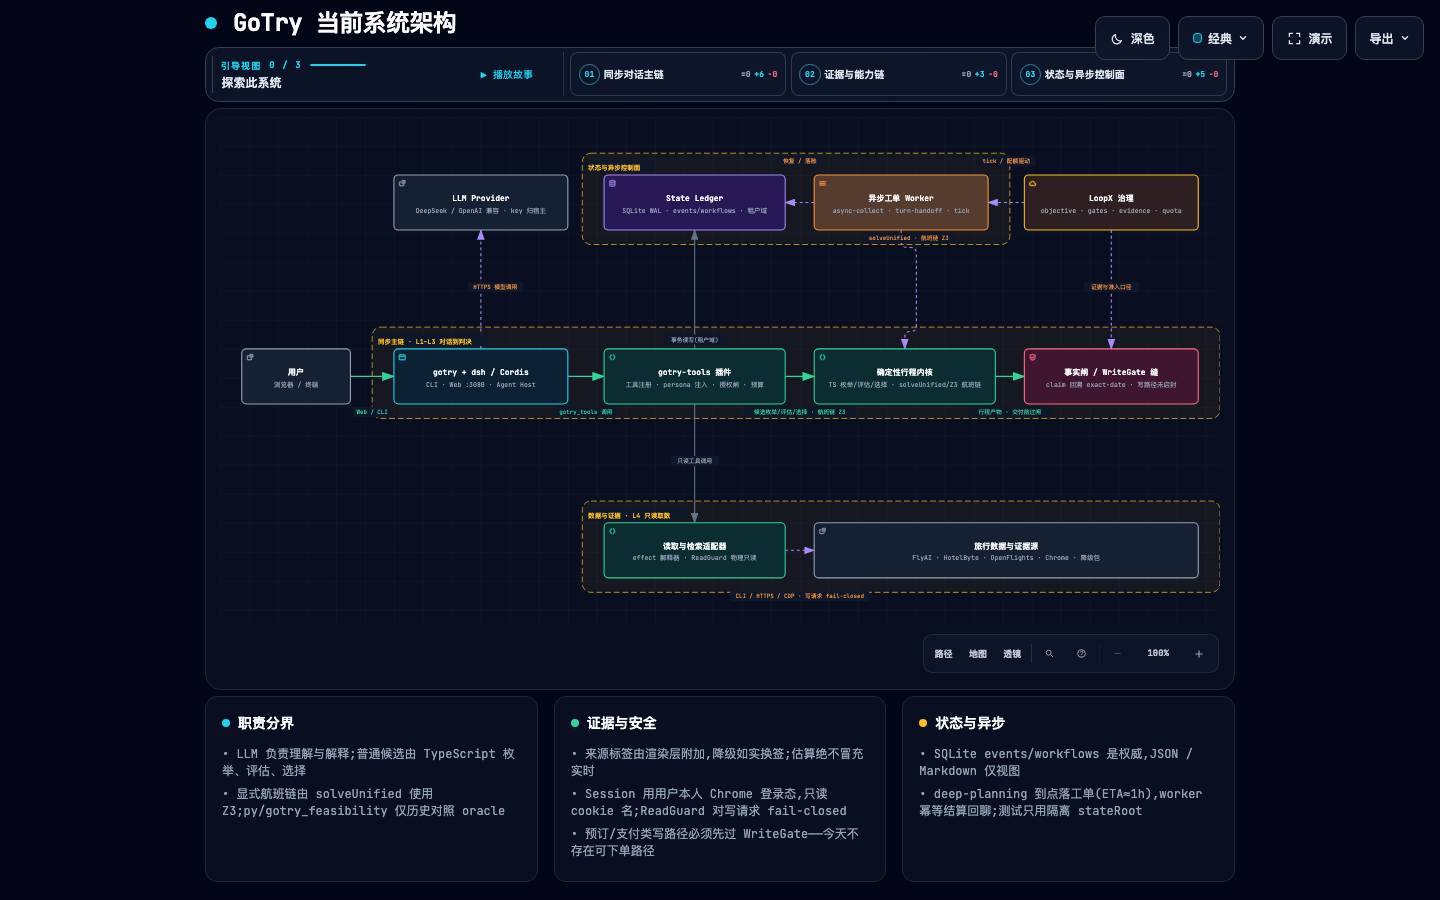
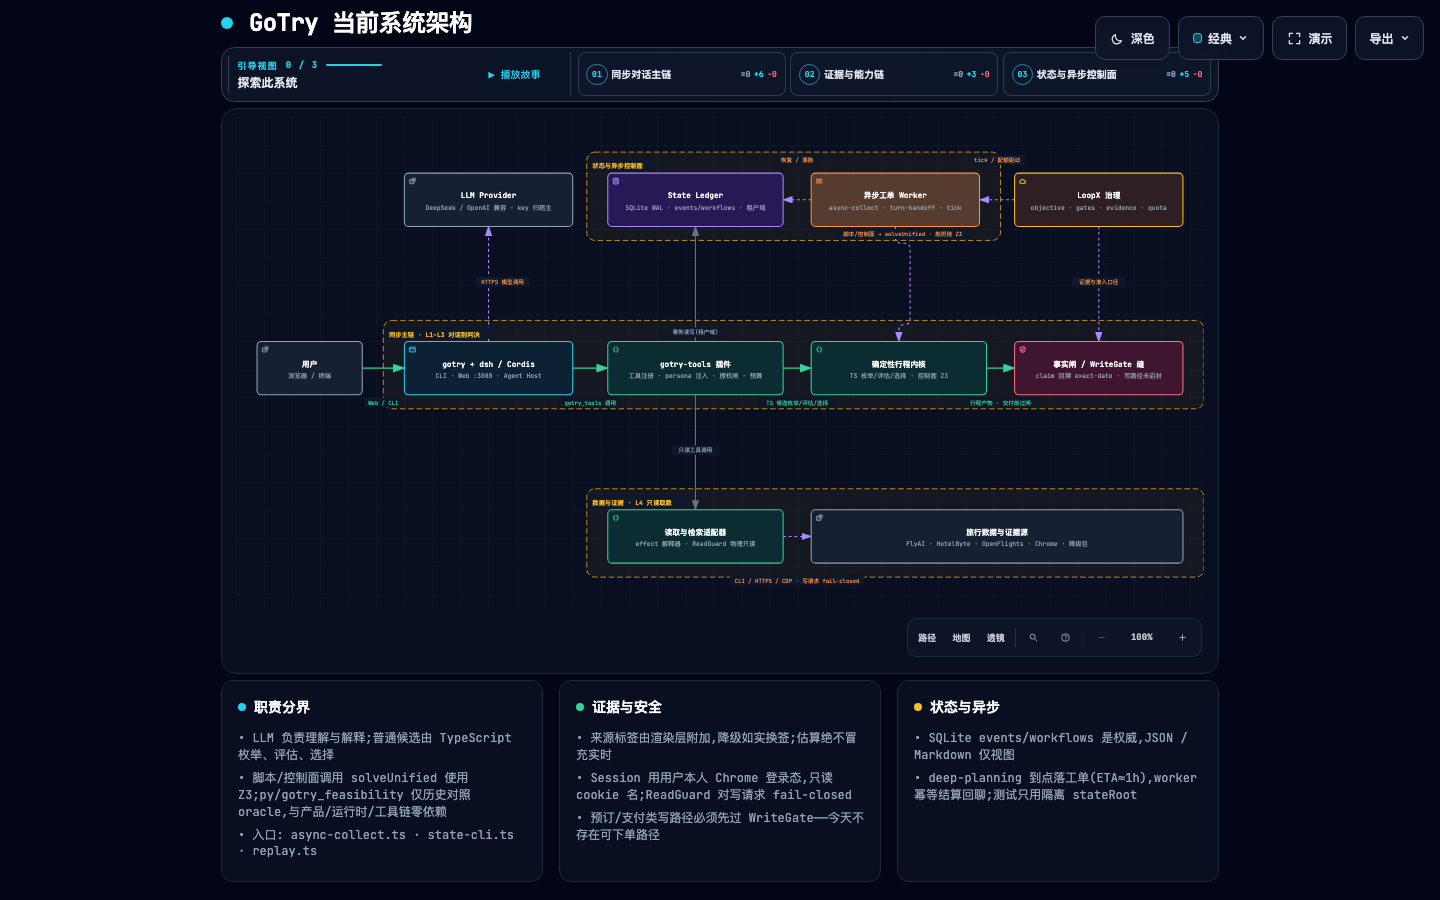
docs(readme): scope Z3 to control-plane callers

diff --git a/docs/assets/gotry-system-architecture.html b/docs/assets/gotry-system-architecture.html
@@ -5040,11 +5040,11 @@
         <path data-edge-from="user" data-edge-to="local-runtime" data-edge-label="Web / CLI" data-edge-key="0" data-edge-id="user-enters" data-composition-points="180,358;240,358" d="M 180 358 L 240 358" class="a-emphasis" stroke-width="1.8" marker-end="url(#arrowhead-emphasis)"/>
         <path data-edge-from="local-runtime" data-edge-to="llm-provider" data-edge-label="HTTPS 模型调用" data-edge-key="1" data-edge-id="runtime-calls-llm" data-composition-points="360,320;360,156" d="M 360 320 L 360 156" class="a-dashed" stroke-width="1.5" marker-end="url(#arrowhead-dashed)"/>
         <path data-edge-from="local-runtime" data-edge-to="gotry-plugin" data-edge-label="gotry_tools 调用" data-edge-key="2" data-edge-id="runtime-invokes-tools" data-composition-points="480,358;530,358" d="M 480 358 L 530 358" class="a-emphasis" stroke-width="1.8" marker-end="url(#arrowhead-emphasis)"/>
-        <path data-edge-from="gotry-plugin" data-edge-to="travel-core" data-edge-label="候选枚举/评估/选择 · 航班链 Z3" data-edge-key="3" data-edge-id="plugin-solves" data-composition-points="780,358;820,358" d="M 780 358 L 820 358" class="a-emphasis" stroke-width="1.8" marker-end="url(#arrowhead-emphasis)"/>
+        <path data-edge-from="gotry-plugin" data-edge-to="travel-core" data-edge-label="TS 候选枚举/评估/选择" data-edge-key="3" data-edge-id="plugin-solves" data-composition-points="780,358;820,358" d="M 780 358 L 820 358" class="a-emphasis" stroke-width="1.8" marker-end="url(#arrowhead-emphasis)"/>
         <path data-edge-from="travel-core" data-edge-to="fact-gate" data-edge-label="行程产物 · 交付前过闸" data-edge-key="4" data-edge-id="core-to-gate" data-composition-points="1070,358;1110,358" d="M 1070 358 L 1110 358" class="a-emphasis" stroke-width="1.8" marker-end="url(#arrowhead-emphasis)"/>
         <path data-edge-from="gotry-plugin" data-edge-to="state-ledger" data-edge-label="事务读写(租户域)" data-edge-key="5" data-edge-id="plugin-uses-ledger" data-composition-points="655,320;655,156" d="M 655 320 L 655 156" class="a-default" stroke-width="1.5" marker-end="url(#arrowhead)"/>
         <path data-edge-from="async-worker" data-edge-to="state-ledger" data-edge-label="恢复 / 落账" data-edge-key="6" data-edge-id="worker-uses-ledger" data-composition-points="820,118;780,118" d="M 820 118 L 780 118" class="a-dashed" stroke-width="1.5" marker-end="url(#arrowhead-dashed)"/>
-        <path data-edge-from="async-worker" data-edge-to="travel-core" data-edge-label="solveUnified · 航班链 Z3" data-edge-key="7" data-edge-id="worker-solves" data-composition-points="940,156;940,180;961,180;961,296;945,296;945,320" d="M 940 156 L 940 172 Q 940 180 948 180 L 953 180 Q 961 180 961 188 L 961 288 Q 961 296 953 296 L 953 296 Q 945 296 945 304 L 945 320" class="a-dashed" stroke-width="1.5" marker-end="url(#arrowhead-dashed)"/>
+        <path data-edge-from="async-worker" data-edge-to="travel-core" data-edge-label="脚本/控制面 → solveUnified · 航班链 Z3" data-edge-key="7" data-edge-id="worker-solves" data-composition-points="940,156;940,180;961,180;961,296;945,296;945,320" d="M 940 156 L 940 172 Q 940 180 948 180 L 953 180 Q 961 180 961 188 L 961 288 Q 961 296 953 296 L 953 296 Q 945 296 945 304 L 945 320" class="a-dashed" stroke-width="1.5" marker-end="url(#arrowhead-dashed)"/>
         <path data-edge-from="gotry-plugin" data-edge-to="capability-adapters" data-edge-label="只读工具调用" data-edge-key="8" data-edge-id="plugin-calls-adapters" data-composition-points="655,396;655,560" d="M 655 396 L 655 560" class="a-default" stroke-width="1.5" marker-end="url(#arrowhead)"/>
         <path data-edge-from="capability-adapters" data-edge-to="external-sources" data-edge-label="CLI / HTTPS / CDP · 写请求 fail-closed" data-edge-key="9" data-edge-id="adapters-query-sources" data-composition-points="780,598;820,598" d="M 780 598 L 820 598" class="a-dashed" stroke-width="1.5" marker-end="url(#arrowhead-dashed)"/>
         <path data-edge-from="loopx" data-edge-to="async-worker" data-edge-label="tick / 配额驱动" data-edge-key="10" data-edge-id="loopx-drives-worker" data-composition-points="1110,118;1060,118" d="M 1110 118 L 1060 118" class="a-dashed" stroke-width="1.5" marker-end="url(#arrowhead-dashed)"/>
@@ -5102,15 +5102,15 @@
         <text data-detail="fine" x="655" y="388" class="t-backend" font-size="7" text-anchor="middle">Cordis plugin</text>
         </g>
 
-        <g id="node-travel-core" data-node-id="travel-core" data-node-label="确定性行程内核" tabindex="0" role="button" aria-label="聚焦确定性行程内核，TS 枚举/评估/选择 · solveUnified/Z3 航班链, 同步主链 · L1–L3 对话到判决" aria-pressed="false" data-node-kind="backend" data-node-sublabel="TS 枚举/评估/选择 · solveUnified/Z3 航班链" data-node-tag="L3" data-node-context="同步主链 · L1–L3 对话到判决">
-          <title>确定性行程内核 · TS 枚举/评估/选择 · solveUnified/Z3 航班链 · 同步主链 · L1–L3 对话到判决 · L3</title>
+        <g id="node-travel-core" data-node-id="travel-core" data-node-label="确定性行程内核" tabindex="0" role="button" aria-label="聚焦确定性行程内核，TS 枚举/评估/选择 · 控制面 Z3, 同步主链 · L1–L3 对话到判决" aria-pressed="false" data-node-kind="backend" data-node-sublabel="TS 枚举/评估/选择 · 控制面 Z3" data-node-tag="L3" data-node-context="同步主链 · L1–L3 对话到判决">
+          <title>确定性行程内核 · TS 枚举/评估/选择 · 控制面 Z3 · 同步主链 · L1–L3 对话到判决 · L3</title>
           <rect x="820" y="320" width="250" height="76" rx="6" class="c-mask"/>
           <rect x="820" y="320" width="250" height="76" rx="6" class="c-backend" stroke-width="1.5"/>
           <g aria-hidden="true" data-semantic-sigil="backend" class="semantic-sigil s-backend" transform="translate(826 326) scale(0.6875)">
             <path d="M6 3 3 8l3 5M10 3l3 5-3 5"/>
           </g>
           <text data-node-label="" data-detail-anchor="" x="945" y="356" class="t-primary" font-size="11" font-weight="600" text-anchor="middle">确定性行程内核</text>
-        <text data-detail="context" x="945" y="372" class="t-muted" font-size="9" text-anchor="middle">TS 枚举/评估/选择 · solveUnified/Z3 航班链</text>
+        <text data-detail="context" x="945" y="372" class="t-muted" font-size="9" text-anchor="middle">TS 枚举/评估/选择 · 控制面 Z3</text>
         <text data-detail="fine" x="945" y="388" class="t-backend" font-size="7" text-anchor="middle">L3</text>
         </g>
 
@@ -5205,9 +5205,9 @@
           <rect x="461.6" y="400" width="86.8" height="14" rx="3" class="c-mask"/>
           <text x="505" y="410" class="t-backend" font-size="8" text-anchor="middle">gotry_tools 调用</text>
         </g>
-        <g data-detail="context" data-edge-from="gotry-plugin" data-edge-to="travel-core" data-edge-label="候选枚举/评估/选择 · 航班链 Z3" data-edge-key="3" data-edge-id="plugin-solves">
-          <rect x="723" y="400" width="154" height="14" rx="3" class="c-mask"/>
-          <text x="800" y="410" class="t-backend" font-size="8" text-anchor="middle">候选枚举/评估/选择 · 航班链 Z3</text>
+        <g data-detail="context" data-edge-from="gotry-plugin" data-edge-to="travel-core" data-edge-label="TS 候选枚举/评估/选择" data-edge-key="3" data-edge-id="plugin-solves">
+          <rect x="744.6" y="400" width="110.8" height="14" rx="3" class="c-mask"/>
+          <text x="800" y="410" class="t-backend" font-size="8" text-anchor="middle">TS 候选枚举/评估/选择</text>
         </g>
         <g data-detail="context" data-edge-from="travel-core" data-edge-to="fact-gate" data-edge-label="行程产物 · 交付前过闸" data-edge-key="4" data-edge-id="core-to-gate">
           <rect x="1034.6" y="400" width="110.8" height="14" rx="3" class="c-mask"/>
@@ -5221,9 +5221,9 @@
           <rect x="768.6" y="54" width="62.8" height="14" rx="3" class="c-mask"/>
           <text x="800" y="64" class="t-messagebus" font-size="8" text-anchor="middle">恢复 / 落账</text>
         </g>
-        <g data-detail="context" data-edge-from="async-worker" data-edge-to="travel-core" data-edge-label="solveUnified · 航班链 Z3" data-edge-key="7" data-edge-id="worker-solves">
-          <rect x="887.9" y="160" width="125.19999999999999" height="14" rx="3" class="c-mask"/>
-          <text x="950.5" y="170" class="t-messagebus" font-size="8" text-anchor="middle">solveUnified · 航班链 Z3</text>
+        <g data-detail="context" data-edge-from="async-worker" data-edge-to="travel-core" data-edge-label="脚本/控制面 → solveUnified · 航班链 Z3" data-edge-key="7" data-edge-id="worker-solves">
+          <rect x="854.3" y="160" width="192.4" height="14" rx="3" class="c-mask"/>
+          <text x="950.5" y="170" class="t-messagebus" font-size="8" text-anchor="middle">脚本/控制面 → solveUnified · 航班链 Z3</text>
         </g>
         <g data-detail="context" data-edge-from="gotry-plugin" data-edge-to="capability-adapters" data-edge-label="只读工具调用" data-edge-key="8" data-edge-id="plugin-calls-adapters">
           <rect x="621.2" y="468" width="67.6" height="14" rx="3" class="c-mask"/>
@@ -5453,7 +5453,8 @@
         </div>
         <ul>
           <li>&bull; LLM 负责理解与解释;普通候选由 TypeScript 枚举、评估、选择</li>
-          <li>&bull; 显式航班链由 solveUnified 使用 Z3;py/gotry_feasibility 仅历史对照 oracle</li>
+          <li>&bull; 脚本/控制面调用 solveUnified 使用 Z3;py/gotry_feasibility 仅历史对照 oracle,与产品/运行时/工具链零依赖</li>
+          <li>&bull; 入口: async-collect.ts · state-cli.ts · replay.ts</li>
         </ul>
       </div>
 

diff --git a/README.md b/README.md
@@ -39,8 +39,8 @@ flowchart LR
   subgraph NUM["Deterministic TypeScript kernel — ordinary choice path"]
     C["Candidate enumeration<br/>solveChoiceSegment"] --> D["Evaluate each choice<br/>evaluateChoice · true-cost checks"] --> V["Choice verdict<br/>feasible / infeasible · recommendation"]
   end
-  subgraph Z3PATH["Explicit flight-chain path"]
-    Z["solveUnified<br/>flight-chain constraints · Z3"]
+  subgraph Z3PATH["Separate script/control-plane entry"]
+    Z["solveUnified<br/>script/control-plane flight-chain · Z3"]
   end
   subgraph GATE["Gates &amp; memory"]
     E["Evidence chain<br/>every number carries a source tag"] --> F{"Fact gate"}
@@ -50,7 +50,7 @@ flowchart LR
   end
   B --> C
   V --> E
-  B -.->|"explicit flight-chain request"| Z
+  B -.->|"separate script/control-plane entry"| Z
   Z --> E
   V -.->|"infeasible today"| I
   I -.->|"conditions met — enumerate again"| C
@@ -109,7 +109,7 @@ Architecture, five layers:
 | Layer | Module | Role |
 |---|---|---|
 | L2 | `ts/src/index.ts` (dsh plugin) | Tool registry (count lives in code and `scripts/run-all-tests.sh` output), time-anchor & memory-brief variables; execute isolation + consent gate + per-turn tool budget + process guards |
-| L3 | `ts/src/unified.ts` · `py/gotry_feasibility/` | ordinary candidate enumeration/evaluation/choice; `solveUnified` is the separate flight-chain Z3 path |
+| L3 | `ts/src/unified.ts` | ordinary candidate enumeration/evaluation/choice; `solveUnified` is the separate flight-chain Z3 path. `py/gotry_feasibility/` is a historical comparison oracle only, with zero product/runtime/toolchain dependency |
 | L4 | `ts/capabilities/effect.ts` · `hbcli.ts` · `skeleton-check.ts` | effect interpreter (backoff retry / circuit breaker / mock interpreter) + realtime inventory bridge + OpenFlights skeleton (three-valued semantics) |
 | L5 | loopx governance | objective / gates / evidence / quota |
 
@@ -129,7 +129,7 @@ The GoTry plugin exposes its tools in groups (the exact count lives in the code 
 | | `gotry_skeleton_check` | OpenFlights 168-hub-pair connectivity (three-valued) |
 | **Inventory & catalog** | `gotry_hotel_search` | hotel-byte realtime bridge (requires valid check-in/check-out dates and asks for missing dates), with clearly labeled static results when the supplier is unavailable |
 | | `gotry_anything_search` | mixed city/hotel/POI catalog (hotel-be Anything) |
-| **Decision engine** | `gotry_feasibility_check` | Ordinary path: deterministic TypeScript candidate enumeration/evaluation and per-candidate verdicts; explicit flight-chain requests use Z3 |
+| **Decision engine** | `gotry_feasibility_check` | Registered path: deterministic TypeScript candidate enumeration/evaluation and per-candidate verdicts |
 | **Memory & reachability** | `gotry_motivation_save` | Persist motivation profile (evidence mandatory, anti-fabrication) |
 | | `gotry_wish_pool_add` / `gotry_wish_pool_list` | "next departure" wish pool + 0..1 conditional recall |
 | | `gotry_companion_save` · `gotry_trip_log` | companion profile / travel timeline |

diff --git a/README.zh-CN.md b/README.zh-CN.md
@@ -39,8 +39,8 @@ flowchart LR
   subgraph NUM["确定性 TypeScript 内核——普通候选路径"]
     C["候选枚举<br/>solveChoiceSegment"] --> D["逐个评估选择<br/>evaluateChoice · 真成本检查"] --> V["选择判决<br/>可行 / 不可行 · 推荐"]
   end
-  subgraph Z3PATH["显式航班链路径"]
-    Z["solveUnified<br/>航班链约束 · Z3"]
+  subgraph Z3PATH["独立脚本/控制面入口"]
+    Z["solveUnified<br/>脚本/控制面航班链 · Z3"]
   end
   subgraph GATE["闸与记忆"]
     E["证据链<br/>每个数字带来源标签"] --> F{"事实闸"}
@@ -50,7 +50,7 @@ flowchart LR
   end
   B --> C
   V --> E
-  B -.->|"显式航班链请求"| Z
+  B -.->|"独立脚本/控制面入口"| Z
   Z --> E
   V -.->|"今天装不下"| I
   I -.->|"条件满足,重新枚举"| C
@@ -109,7 +109,7 @@ stateDiagram-v2
 | 层 | 模块 | 角色 |
 |---|---|---|
 | L2 | `ts/src/index.ts`(dsh 插件) | 注册 21 工具,挂时间锚点/记忆 brief 变量;execute 异常隔离 + 授权闸 + 每轮工具预算 + 进程护栏 |
-| L3 | `ts/src/unified.ts` · `py/gotry_feasibility/` | 普通候选枚举/评估/选择; `solveUnified` 是独立航班链 Z3 路径 |
+| L3 | `ts/src/unified.ts` | 普通候选枚举/评估/选择; `solveUnified` 是独立航班链 Z3 路径。`py/gotry_feasibility/` 仅是历史对照 oracle,与产品/运行时/工具链零依赖 |
 | L4 | `ts/capabilities/effect.ts` · `hbcli.ts` · `skeleton-check.ts` | 效应解译层(退避重试/断路器/mock 解译器)+ 实时库存桥 + OpenFlights 骨架(三值语义) |
 | L5 | loopx 治理面 | objective / gates / evidence / quota |
 
@@ -129,7 +129,7 @@ stateDiagram-v2
 | | `gotry_skeleton_check` | OpenFlights 168 对枢纽通航性(三值) |
 | **库存与目录** | `gotry_hotel_search` | hotel-byte 实时桥(需提供有效入住/退房日期,缺失时先追问),供应商不可用时降级为明确标注的静态结果 |
 | | `gotry_anything_search` | 城市/酒店/地标混合目录(hotel-be Anything) |
-| **判定引擎** | `gotry_feasibility_check` | 普通路径:确定性的 TypeScript 候选枚举/评估与逐候选判决;显式航班链请求使用 Z3 |
+| **判定引擎** | `gotry_feasibility_check` | 注册工具路径:确定性的 TypeScript 候选枚举/评估与逐候选判决 |
 | **记忆与触达** | `gotry_motivation_save` | 动机画像落盘(evidence 强制,反幻觉) |
 | | `gotry_wish_pool_add` / `gotry_wish_pool_list` | 「下一次出发」愿望池 + 0..1 条件召回 |
 | | `gotry_companion_save` · `gotry_trip_log` | 同行人档案 / 旅行时间线 |
